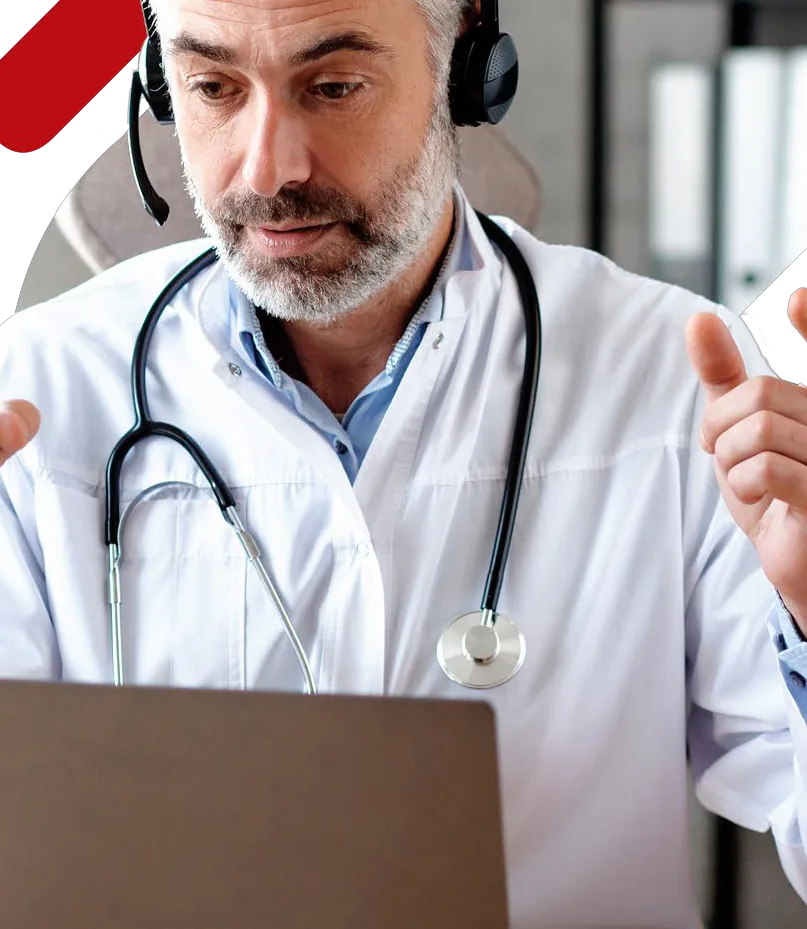
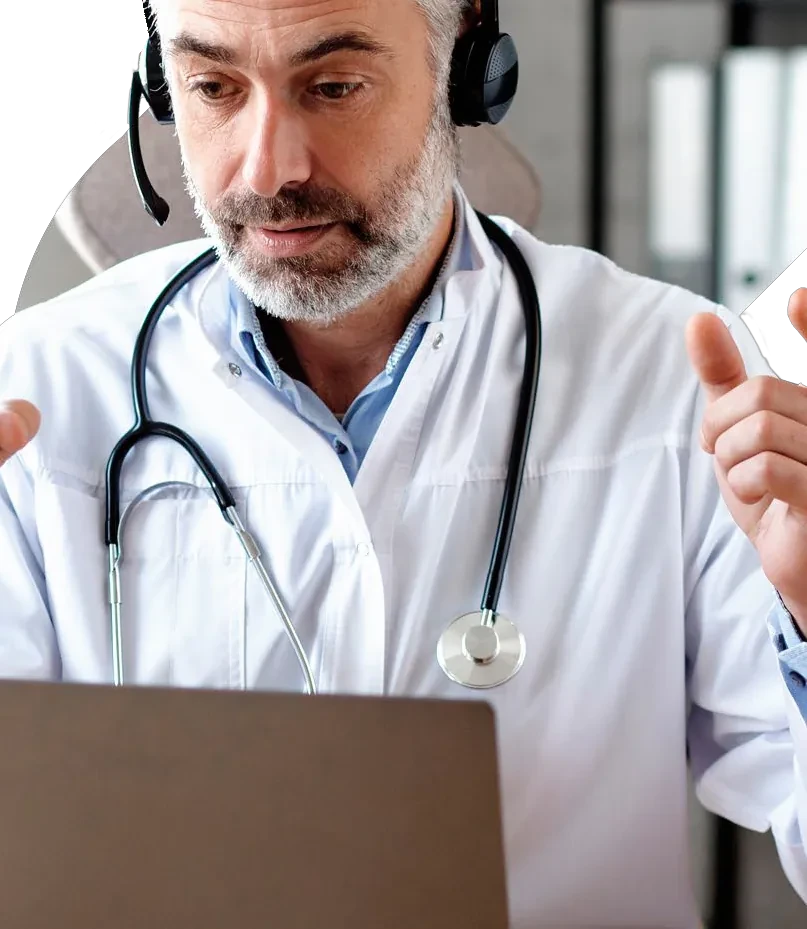
Auditoria visual: harmonização em 24 rotas (desktop + mobile)
Correções de refinamento identificadas em auditoria sistemática com 49
capturas full-page (24 rotas × 2 viewports), sem mudança de layout,
paleta, copy ou fontes:

- Fotos: remove o fragmento vermelho de slide (artefato da extração do
  PDF) do canto sup-esquerdo de familia.webp e doctor_headset.webp —
  visível nos heros de Cartão Medicar, Lar Protegido, Clínica e
  Telemedicina.
- ServiceView: poster do "Como funciona" não repete mais a foto do hero
  (usa a foto da equipe/mission, com fallback cruzado); benefícios com
  4 itens agora fecham em grade 2×2 (sem card órfão); carrossel de
  modelos com motion-reduce e máscara de fade nas bordas (consistente
  com o LogoStrip).
- StatsBand: no mobile (2 colunas), o 5º número ocupa a linha inteira
  centralizado em vez de ficar órfão à esquerda.
- BlogPost: não duplica o excerpt quando o post tem conteúdo
  estruturado (o 1º parágrafo já o repete).
- About: ano da linha do tempo em bold (hierarquia).
- LogoStrip: logos dos clientes um pouco maiores (h-8 → h-9).
- Home: espaço não separável em "4 etapas" (evita viúva no título).

Verificado: tsc + build ok; re-capturas confirmam cada correção; zero
overflow horizontal no mobile em todas as rotas.

Claude-Session: https://claude.ai/code/session_01YJWyVou5AgByfxxt1C3zjk

Changed region(s): [[0.0, 0.0, 0.1859, 0.1873]]

diff --git a/src/components/ServiceView.tsx b/src/components/ServiceView.tsx
@@ -95,7 +95,12 @@ export function ServiceView({ service, origin }: ServiceViewProps) {
             Por que contratar {service.cardTitle} com a Medicar
           </h2>
         </Reveal>
-        <div className="mt-10 grid gap-4 sm:grid-cols-2 lg:grid-cols-3">
+        {/* 4 itens → 2×2 (evita card órfão numa grade de 3 colunas) */}
+        <div
+          className={`mt-10 grid gap-4 sm:grid-cols-2 ${
+            service.benefits.length === 4 ? '' : 'lg:grid-cols-3'
+          }`}
+        >
           {service.benefits.map((b, i) => (
             <Reveal key={b.title} delay={(i % 3) * 0.05}>
               <div className="h-full rounded-card border border-line bg-canvas p-5">
@@ -112,7 +117,11 @@ export function ServiceView({ service, origin }: ServiceViewProps) {
       <section className="border-y border-line bg-surface">
         <div className="mx-auto grid max-w-page items-center gap-10 px-4 py-section md:px-6 lg:grid-cols-[1.25fr_0.75fr]">
           <Reveal>
-            <MediaFrame poster={heroPhoto ?? photos.ambulance} alt={`Como funciona — ${service.cardTitle}`} />
+            {/* Poster diferente da foto do hero, para não repetir a mesma imagem na sequência */}
+            <MediaFrame
+              poster={heroPhoto === photos.mission ? photos.ambulance : photos.mission}
+              alt={`Como funciona — ${service.cardTitle}`}
+            />
           </Reveal>
           <Reveal delay={0.06}>
             <div>
@@ -212,8 +221,15 @@ export function ServiceView({ service, origin }: ServiceViewProps) {
               Escolha o modelo conforme a operação e o terreno.
             </p>
           </div>
-          <div className="group relative mt-4 overflow-hidden pb-section">
-            <ul className="flex w-max animate-marquee-slow gap-4 px-4 group-hover:[animation-play-state:paused]">
+          <div
+            className="group relative mt-4 overflow-hidden pb-section"
+            style={{
+              maskImage: 'linear-gradient(90deg, transparent, #000 7%, #000 93%, transparent)',
+              WebkitMaskImage:
+                'linear-gradient(90deg, transparent, #000 7%, #000 93%, transparent)',
+            }}
+          >
+            <ul className="flex w-max animate-marquee-slow gap-4 px-4 group-hover:[animation-play-state:paused] motion-reduce:animate-none motion-reduce:overflow-x-auto motion-reduce:[mask-image:none]">
               {[...ambulanceModels, ...ambulanceModels, ...ambulanceModels].map((m, i) => (
                 <li
                   key={`${m.name}-${i}`}

diff --git a/src/components/StatsBand.tsx b/src/components/StatsBand.tsx
@@ -72,7 +72,12 @@ export function StatsBand() {
 
         <div className="mt-14 grid grid-cols-2 gap-y-10 sm:grid-cols-3 lg:grid-cols-5 lg:divide-x lg:divide-white/30">
           {stats.map((s, i) => (
-            <Reveal key={s.label} delay={i * 0.06} className="lg:px-6">
+            <Reveal
+              key={s.label}
+              delay={i * 0.06}
+              // No mobile (2 colunas), o 5º número ocupa a linha inteira centralizado
+              className={`lg:px-6 ${i === stats.length - 1 ? 'max-sm:col-span-2' : ''}`}
+            >
               <div className="flex h-full flex-col items-center text-center text-white">
                 <svg
                   width="60"

diff --git a/src/pages/BlogPost.tsx b/src/pages/BlogPost.tsx
@@ -22,7 +22,8 @@ export default function BlogPost() {
           / <span className="text-ink-soft">{post.category}</span>
         </nav>
  <h1 className="mt-4 text-heading-sm text-ink md:text-heading">{post.title}</h1>
-        <p className="mt-4 text-body-lg text-ink-soft">{post.excerpt}</p>
+        {/* Com conteúdo estruturado, o 1º parágrafo já repete o excerpt — evita duplicar */}
+        {!post.content && <p className="mt-4 text-body-lg text-ink-soft">{post.excerpt}</p>}
 
         {post.content ? (
           <div className="mt-10">

diff --git a/src/pages/About.tsx b/src/pages/About.tsx
@@ -152,7 +152,7 @@ export default function About() {
                     aria-hidden="true"
                     className="absolute -left-[5px] top-1.5 h-2.5 w-2.5 rounded-full border-2 border-surface bg-medicar-red"
                   />
-                  <p className="text-body-lg text-ink">{entry.year}</p>
+                  <p className="text-body-lg font-bold text-ink">{entry.year}</p>
                   <p className="mt-1 text-body-sm text-ink-soft">{entry.text}</p>
                 </li>
               </Reveal>

diff --git a/src/pages/Home.tsx b/src/pages/Home.tsx
@@ -210,7 +210,7 @@ export default function Home() {
       <section className="mx-auto max-w-page px-4 py-section md:px-6">
         <SectionHeading
           eyebrow="Como funciona"
-          title="Do chamado ao socorro, em 4 etapas"
+          title={'Do chamado ao socorro, em 4 etapas'}
           lead="Central de Atendimento 24h com regulação médica: o recurso certo, no menor tempo."
         />
         <ol className="mt-12 grid gap-4 sm:grid-cols-2 lg:grid-cols-4">

diff --git a/src/components/LogoStrip.tsx b/src/components/LogoStrip.tsx
@@ -41,7 +41,7 @@ export function LogoStrip() {
                   <img
                     src={c.logo}
                     alt={c.name}
-                    className="h-8 w-auto opacity-70 grayscale transition group-hover:opacity-100"
+                    className="h-9 w-auto opacity-70 grayscale transition group-hover:opacity-100"
                   />
                 ) : (
                   // Placeholder textual até o asset do logo chegar.
